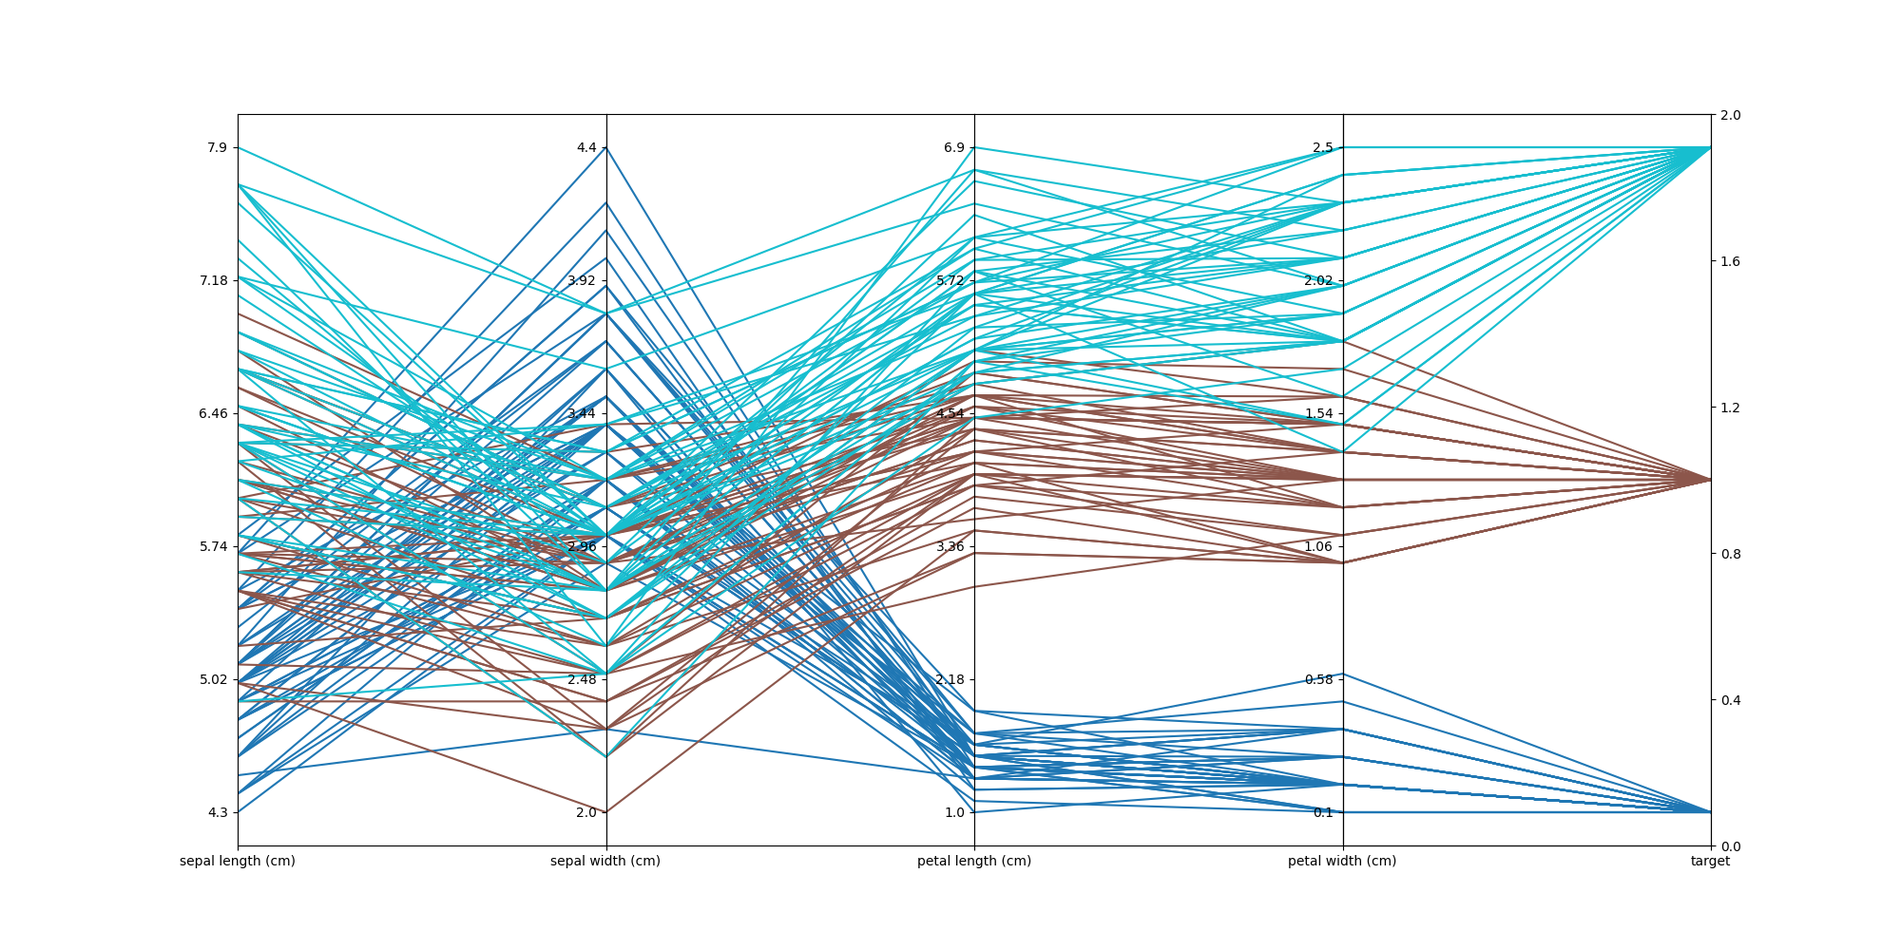
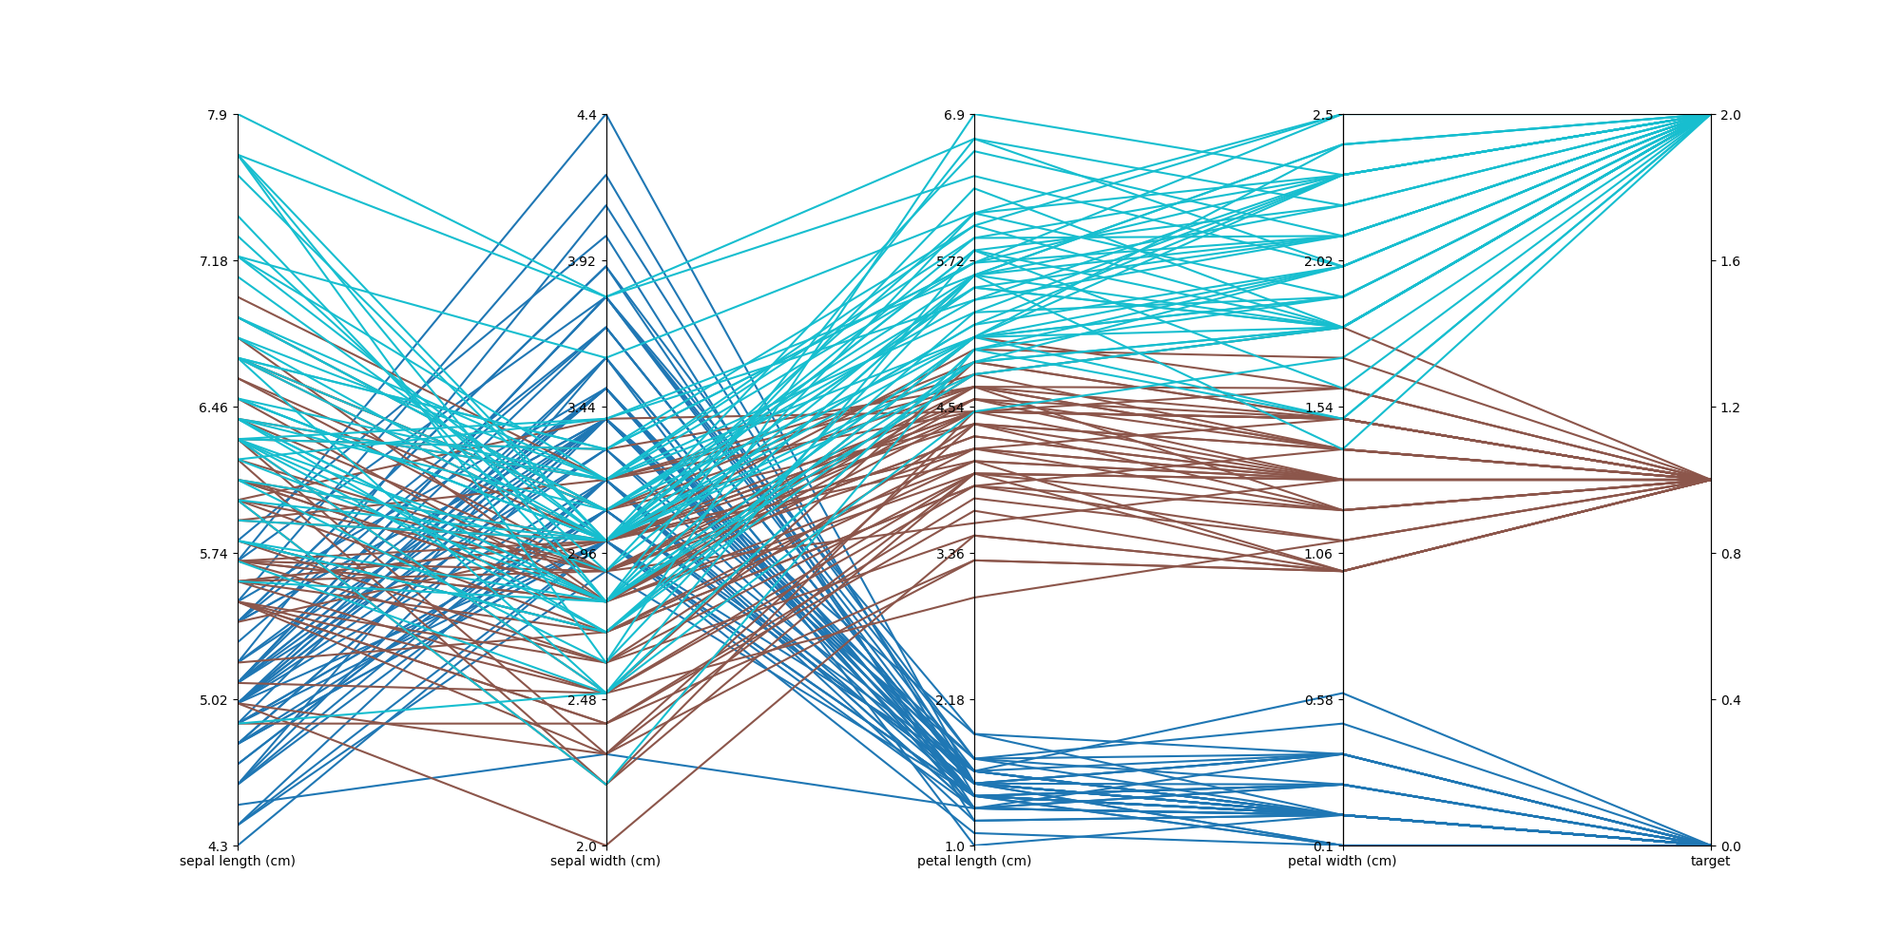
Improved ScalarsParallelCoordinates, implemented colorbar

Changed region(s): [[0.093, 0.124, 0.899, 0.899]]

diff --git a/docs/searchindex.js b/docs/searchindex.js
@@ -1,1 +1,1 @@
-Search.setIndex({docnames:["data","groupedscalars","groupedseries","index","scalars","series","ungroupedscalars","ungroupedseries","utils"],envversion:{"sphinx.domains.c":2,"sphinx.domains.changeset":1,"sphinx.domains.citation":1,"sphinx.domains.cpp":3,"sphinx.domains.index":1,"sphinx.domains.javascript":2,"sphinx.domains.math":2,"sphinx.domains.python":2,"sphinx.domains.rst":2,"sphinx.domains.std":1,sphinx:56},filenames:["data.rst","groupedscalars.rst","groupedseries.rst","index.rst","scalars.rst","series.rst","ungroupedscalars.rst","ungroupedseries.rst","utils.rst"],objects:{"plotszoo.data":{DataCollection:[0,0,1,""],OptunaData:[0,0,1,""],WandbData:[0,0,1,""]},"plotszoo.data.DataCollection":{align_series:[0,1,1,""],are_series_aligned:[0,1,1,""],astype:[0,1,1,""],create_categorical:[0,1,1,""],create_scalar_from_series:[0,1,1,""],dropna:[0,1,1,""],dropna_series:[0,1,1,""],fillna:[0,1,1,""],fillna_series:[0,1,1,""],is_both:[0,1,1,""],is_empty:[0,1,1,""],is_scalars:[0,1,1,""],is_series:[0,1,1,""],rolling_series:[0,1,1,""],set_scalars:[0,1,1,""],set_series:[0,1,1,""]},"plotszoo.data.OptunaData":{pull_scalars:[0,1,1,""]},"plotszoo.data.WandbData":{pull_scalars:[0,1,1,""],pull_series:[0,1,1,""]},"plotszoo.scalars":{ScalarsParallelCoordinates:[6,0,1,""],ScalarsScatterCumulative:[6,0,1,""]},"plotszoo.scalars.ScalarsParallelCoordinates":{plot:[6,1,1,""]},"plotszoo.scalars.ScalarsScatterCumulative":{plot:[6,1,1,""]},"plotszoo.scalars.grouped":{GroupedScalarsBarchart:[1,0,1,""]},"plotszoo.scalars.grouped.GroupedScalarsBarchart":{plot:[1,1,1,""]},"plotszoo.series":{SeriesParade:[7,0,1,""]},"plotszoo.series.SeriesParade":{plot:[7,1,1,""]},"plotszoo.series.grouped":{GroupedSeriesParade:[2,0,1,""]},"plotszoo.series.grouped.GroupedSeriesParade":{plot:[2,1,1,""]},"plotszoo.utils":{savefig:[8,3,1,""]},plotszoo:{utils:[8,2,0,"-"]}},objnames:{"0":["py","class","Python class"],"1":["py","method","Python method"],"2":["py","module","Python module"],"3":["py","function","Python function"]},objtypes:{"0":"py:class","1":"py:method","2":"py:module","3":"py:function"},terms:{"100":[2,7],"999":6,"class":[0,1,2,4,5,6,7],"default":[0,1,2,6,7,8],"float":0,"function":[0,1,3,6,7],"import":[1,2,6,7],"int":1,"new":0,"return":[0,1],"true":[0,1,6,8],The:[0,1,2,6,7,8],Use:[0,6],Useful:2,Will:0,__file__:[1,2,6,7],about:0,accord:0,actual:6,adjust_whitespac:6,adjust_withspac:6,after:[0,2],against:6,agg_fn:0,algin:0,align:[0,2],align_seri:0,all:[0,3,7],alpha:2,also:0,amax:6,api:0,append:[2,7],appli:0,are_series_align:0,area:2,arg:[0,1,2,6,7,8],argument:0,astyp:0,attribut:0,axes:[1,2,6,7],axi:1,barchart:1,base:0,befor:2,blue:6,both:[0,2],cach:0,cache_dir:0,call:[0,2,6,8],can:[3,4,5,6],cast:0,categor:[0,6],certain:2,chang:0,chart:6,check:0,choos:0,cmap:[2,6,7],cmap_fn:6,cointain:0,cointan:0,collect:0,color:[6,7],color_fn:7,colormap:[2,6,7],colum:0,column:[0,1,2,6,7],common:0,comput:7,confid:[1,2],config:6,configur:6,contain:0,content:[3,4,5],convert:[0,1],coordin:6,correspond:0,cos:[0,2,7],creat:[0,6,8],create_categor:0,create_dir_tre:8,create_scalar_from_seri:0,cumul:6,cumulative_fn:6,data:[1,2,3,6,7],datacollect:[0,1,2,6,7],datafram:[0,1,2,6,7],dataset:[1,6],dict:[0,6],dictionari:6,directori:[0,8],dirnam:[1,2,6,7],disabl:0,discard:0,divid:[4,5],doe:8,drop:0,dropna:0,dropna_seri:0,each:[0,1,2,6],effect:6,element:6,empti:0,ent_coef:6,exampl:[0,1,2,6,7,8],exist:8,fals:[0,1,2,6],featur:1,feature_nam:[1,6],field:6,fig:[1,2,6,7,8],figur:8,filenam:8,fill:0,fillna:0,fillna_seri:0,filter:0,find:[3,4,5],finish:0,first:8,fixed_color:7,flatten:1,folder:8,forc:0,force_upd:0,from:[0,1,6,7],full:0,gamma:6,get:3,goal:2,goal_typ:2,grid:1,grope:[4,5],group:[3,4,5,6],groupedscalarsbarchart:1,groupedseriesparad:2,have:[0,6],here:[0,1,2,3,4,5,6,7,8],histori:0,imag:[1,2,6,7],index:[0,1,2,3,6,7],indic:[0,1,2],inform:3,input:0,instead:6,integ:6,interv:[1,2],iri:[1,6],is_both:0,is_empti:0,is_scalar:0,is_seri:0,join:[1,2,6,7],just:[4,5],kei:[0,6],keyword:0,kwarg:[0,8],label:6,lambda:[0,1,7],legend:2,len:[2,6,7],line:1,linear:6,linspac:[2,6,7],list:[0,1,2,6],load:3,load_iri:[1,6],loc:2,logarithm:6,longest:0,lower:2,make:6,matplotlib:[1,2,6,7,8],max:[2,6],max_clip_norm:6,maximum:6,mean:[0,1,2,6],mean_reward:0,method:0,min:[0,2],minimum:6,modul:3,mongodb:0,must:[0,6],name:0,nan:0,nbin:1,nearest:0,need:3,new_column:0,nice:8,noise_level:[2,7],noisy_co:[2,7],noisy_sin:[2,7],none:[0,1,2,6,7],norm:6,normalize_color:2,num_seri:[2,7],number:[1,6],numer:[0,6],numpi:[1,2,6,7],one:[0,7],ones:[4,5],optuna:0,optunadata:0,organ:0,page:3,panda:[0,1,2,6,7],parad:[2,7],parallel:6,parallel_plot:6,path:[1,2,6,7],pdf:6,plot:[3,8],plotszoo:[0,1,2,4,5,6,7,8],plt:[1,2,6,7,8],png:[1,2,6,7,8],point:6,ppf:6,prettier:6,probabl:0,process:2,project:0,provid:0,pull:0,pull_scalar:0,pull_seri:0,pyplot:[1,2,6,7],python:0,queri:0,rand:[2,7],random:[2,7],rang:[2,7],reach:2,realpath:[1,2,6,7],reindex:0,rel:6,requir:[2,6],reset:0,respect:6,result:0,retriv:0,reward:[0,6],right:2,rightmost:6,roll:0,rolling_seri:0,row:0,run:[0,6],same:[0,6],sampl:[2,7],save:8,savefig:[1,2,6,7,8],savefig_kwarg:8,scalar:[0,2,3,7],scalar_nam:0,scalarsparallelcoordin:6,scalarsscattercumul:6,scale:6,scan_histori:0,scatter:6,scatter_cumul:6,scatterplot:6,scipi:6,search:3,seed:[2,7],sequenc:6,sequenti:6,seri:[0,3],series_parad:[2,7],seriesparad:7,servic:0,set:[0,6],set_scalar:[0,1,2,6,7],set_seri:[0,2,7],set_size_inch:[1,6],share:0,sharei:6,shortest:0,show:[1,6],side:6,sin:[0,2,7],sklearn:[1,6],sobsitut:0,some:[1,2,4,5,6,7,8],sort:6,sqlite:0,start:3,start_tim:0,stat:6,state:0,stochast:2,stop:2,storag:0,store:0,strategi:0,studi:0,study_nam:0,subplot:[1,2,6,7],subplots_adjust:6,sum:6,summari:6,tab10:[2,6,7],tan:0,target:[1,2,6],target_entropi:6,target_nam:1,text:1,textual:0,thei:8,them:[4,5],thi:2,tick:[1,6],time:0,timestamp:0,titl:1,train_step:6,tree:8,two:0,type:[0,2,6,7],unalign:0,ungroup:[3,4,5],updat:0,use:[0,2,6,7],used:6,usernam:0,using:[0,2,6],util:3,valu:[0,2,6,7],verbos:0,vertic:1,vf_coef:6,wandb:0,wandbdata:0,welcom:3,well:1,when:2,where:0,which:0,window:0,without:[4,5],work:2,wspace:6,x_seq:6,xtick:6,xticks_fn:6,you:[3,4,5,6],yticks_fn:1,zip:1},titles:["Data loading","Plotting Grouped Scalars","Plotting Grouped Series","plotszoo\u2019s documentation","Plotting Scalars","Plotting Series","Plotting Ungrouped Scalars","Plotting Ungrouped Series","Utility Functions"],titleterms:{"function":8,data:0,document:3,group:[1,2],indic:3,load:0,plot:[1,2,4,5,6,7],plotszoo:3,scalar:[1,4,6],seri:[2,5,7],tabl:3,ungroup:[6,7],util:8}})
+Search.setIndex({docnames:["data","groupedscalars","groupedseries","index","scalars","series","ungroupedscalars","ungroupedseries","utils"],envversion:{"sphinx.domains.c":2,"sphinx.domains.changeset":1,"sphinx.domains.citation":1,"sphinx.domains.cpp":3,"sphinx.domains.index":1,"sphinx.domains.javascript":2,"sphinx.domains.math":2,"sphinx.domains.python":2,"sphinx.domains.rst":2,"sphinx.domains.std":1,sphinx:56},filenames:["data.rst","groupedscalars.rst","groupedseries.rst","index.rst","scalars.rst","series.rst","ungroupedscalars.rst","ungroupedseries.rst","utils.rst"],objects:{"plotszoo.data":{DataCollection:[0,0,1,""],OptunaData:[0,0,1,""],WandbData:[0,0,1,""]},"plotszoo.data.DataCollection":{align_series:[0,1,1,""],are_series_aligned:[0,1,1,""],astype:[0,1,1,""],create_categorical:[0,1,1,""],create_scalar_from_series:[0,1,1,""],dropna:[0,1,1,""],dropna_series:[0,1,1,""],fillna:[0,1,1,""],fillna_series:[0,1,1,""],is_both:[0,1,1,""],is_empty:[0,1,1,""],is_scalars:[0,1,1,""],is_series:[0,1,1,""],rolling_series:[0,1,1,""],set_scalars:[0,1,1,""],set_series:[0,1,1,""]},"plotszoo.data.OptunaData":{pull_scalars:[0,1,1,""]},"plotszoo.data.WandbData":{pull_scalars:[0,1,1,""],pull_series:[0,1,1,""]},"plotszoo.scalars":{ScalarsParallelCoordinates:[6,0,1,""],ScalarsScatterCumulative:[6,0,1,""]},"plotszoo.scalars.ScalarsParallelCoordinates":{plot:[6,1,1,""]},"plotszoo.scalars.ScalarsScatterCumulative":{plot:[6,1,1,""]},"plotszoo.scalars.grouped":{GroupedScalarsBarchart:[1,0,1,""]},"plotszoo.scalars.grouped.GroupedScalarsBarchart":{plot:[1,1,1,""]},"plotszoo.series":{SeriesParade:[7,0,1,""]},"plotszoo.series.SeriesParade":{plot:[7,1,1,""]},"plotszoo.series.grouped":{GroupedSeriesParade:[2,0,1,""]},"plotszoo.series.grouped.GroupedSeriesParade":{plot:[2,1,1,""]},"plotszoo.utils":{savefig:[8,3,1,""]},plotszoo:{utils:[8,2,0,"-"]}},objnames:{"0":["py","class","Python class"],"1":["py","method","Python method"],"2":["py","module","Python module"],"3":["py","function","Python function"]},objtypes:{"0":"py:class","1":"py:method","2":"py:module","3":"py:function"},terms:{"100":[2,7],"999":6,"class":[0,1,2,4,5,6,7],"default":[0,1,2,6,7,8],"float":0,"function":[0,1,3,6,7],"import":[1,2,6,7],"int":1,"new":0,"return":[0,1],"true":[0,1,6,8],The:[0,1,2,6,7,8],Use:[0,6],Useful:2,Will:0,__file__:[1,2,6,7],about:0,accord:0,actual:6,adjust_whitespac:6,adjust_withspac:6,after:[0,2],against:6,agg_fn:0,algin:0,align:[0,2],align_seri:0,all:[0,3,7],alpha:2,also:0,amax:6,api:0,append:[2,7],appli:0,are_series_align:0,area:2,arg:[0,1,2,6,7,8],argument:0,astyp:0,attribut:0,axes:[1,2,6,7],axi:1,barchart:1,base:0,befor:2,blue:6,both:[0,2],cach:0,cache_dir:0,call:[0,2,6,8],can:[3,4,5,6],cast:0,categor:[0,6],certain:2,chang:0,chart:6,check:0,choos:0,cmap:[2,6,7],cmap_fn:6,cointain:0,cointan:0,collect:0,color:[6,7],color_fn:7,colorbar:6,colormap:[2,6,7],colum:0,column:[0,1,2,6,7],common:0,comput:7,confid:[1,2],config:6,configur:6,contain:0,content:[3,4,5],convert:[0,1],coordin:6,correspond:0,cos:[0,2,7],creat:[0,6,8],create_categor:0,create_dir_tre:8,create_scalar_from_seri:0,cumul:6,cumulative_fn:6,data:[1,2,3,6,7],datacollect:[0,1,2,6,7],datafram:[0,1,2,6,7],dataset:[1,6],dict:[0,6],dictionari:6,directori:[0,8],dirnam:[1,2,6,7],disabl:0,discard:0,divid:[4,5],doe:8,drop:0,dropna:0,dropna_seri:0,each:[0,1,2,6],effect:6,element:6,empti:0,ent_coef:6,exampl:[0,1,2,6,7,8],exist:8,fals:[0,1,2,6],featur:1,feature_nam:[1,6],field:6,fig:[1,2,6,7,8],figur:8,filenam:8,fill:0,fillna:0,fillna_seri:0,filter:0,find:[3,4,5],finish:0,first:8,fixed_color:7,flatten:1,folder:8,forc:0,force_upd:0,from:[0,1,6,7],full:0,gamma:6,get:3,goal:2,goal_typ:2,grid:1,grope:[4,5],group:[3,4,5,6],groupedscalarsbarchart:1,groupedseriesparad:2,have:[0,6],here:[0,1,2,3,4,5,6,7,8],histori:0,imag:[1,2,6,7],index:[0,1,2,3,6,7],indic:[0,1,2],inform:3,input:0,instead:6,integ:6,interv:[1,2],iri:[1,6],is_both:0,is_empti:0,is_scalar:0,is_seri:0,join:[1,2,6,7],just:[4,5],kei:[0,6],keyword:0,kwarg:[0,8],label:6,lambda:[0,1,7],legend:2,len:[2,6,7],line:1,linear:6,linspac:[2,6,7],list:[0,1,2,6],load:3,load_iri:[1,6],loc:2,logarithm:6,longest:0,lower:2,make:6,matplotlib:[1,2,6,7,8],max:[2,6],max_clip_norm:6,maximum:6,mean:[0,1,2,6],mean_reward:0,method:0,min:[0,2],minimum:6,modul:3,mongodb:0,must:[0,6],name:0,nan:0,nbin:1,nearest:0,need:3,new_column:0,nice:8,noise_level:[2,7],noisy_co:[2,7],noisy_sin:[2,7],none:[0,1,2,6,7],norm:6,normalize_color:2,num_seri:[2,7],number:[1,6],numer:[0,6],numpi:[1,2,6,7],one:[0,7],ones:[4,5],optuna:0,optunadata:0,organ:0,page:3,panda:[0,1,2,6,7],parad:[2,7],parallel:6,parallel_plot:6,path:[1,2,6,7],pdf:6,plot:[3,8],plotszoo:[0,1,2,4,5,6,7,8],plt:[1,2,6,7,8],png:[1,2,6,7,8],point:6,ppf:6,prettier:6,probabl:0,process:2,project:0,provid:0,pull:0,pull_scalar:0,pull_seri:0,pyplot:[1,2,6,7],python:0,queri:0,rand:[2,7],random:[2,7],rang:[2,7],reach:2,realpath:[1,2,6,7],reindex:0,rel:6,requir:[2,6],reset:0,respect:6,result:0,retriv:0,reward:[0,6],right:2,rightmost:6,roll:0,rolling_seri:0,row:0,run:[0,6],same:[0,6],sampl:[2,7],save:8,savefig:[1,2,6,7,8],savefig_kwarg:8,scalar:[0,2,3,7],scalar_nam:0,scalarsparallelcoordin:6,scalarsscattercumul:6,scale:6,scan_histori:0,scatter:6,scatter_cumul:6,scatterplot:6,scipi:6,search:3,seed:[2,7],sequenc:6,sequenti:6,seri:[0,3],series_parad:[2,7],seriesparad:7,servic:0,set:[0,6],set_scalar:[0,1,2,6,7],set_seri:[0,2,7],set_size_inch:[1,6],share:0,sharei:6,shortest:0,show:[1,6],side:6,sin:[0,2,7],sklearn:[1,6],sobsitut:0,some:[1,2,4,5,6,7,8],sort:6,sqlite:0,start:3,start_tim:0,stat:6,state:0,stochast:2,stop:2,storag:0,store:0,strategi:0,studi:0,study_nam:0,subplot:[1,2,6,7],subplots_adjust:6,sum:6,summari:6,tab10:[2,6,7],tan:0,target:[1,2,6],target_entropi:6,target_nam:1,text:1,textual:0,thei:8,them:[4,5],thi:2,tick:[1,6],time:0,timestamp:0,titl:1,train_step:6,tree:8,two:0,type:[0,2,6,7],unalign:0,ungroup:[3,4,5],updat:0,use:[0,2,6,7],used:6,usernam:0,using:[0,2,6],util:3,valu:[0,2,6,7],verbos:0,vertic:1,vf_coef:6,wandb:0,wandbdata:0,welcom:3,well:1,when:2,where:0,which:0,window:0,without:[4,5],work:2,wspace:6,x_seq:6,xtick:6,xticks_fn:6,you:[3,4,5,6],yticks_fn:1,zip:1},titles:["Data loading","Plotting Grouped Scalars","Plotting Grouped Series","plotszoo\u2019s documentation","Plotting Scalars","Plotting Series","Plotting Ungrouped Scalars","Plotting Ungrouped Series","Utility Functions"],titleterms:{"function":8,data:0,document:3,group:[1,2],indic:3,load:0,plot:[1,2,4,5,6,7],plotszoo:3,scalar:[1,4,6],seri:[2,5,7],tabl:3,ungroup:[6,7],util:8}})

diff --git a/docs/ungroupedscalars.html b/docs/ungroupedscalars.html
@@ -208,7 +208,7 @@
 <a class="reference internal image-reference" href="_images/ScalarsParallelCoordinates.png"><img alt="_images/ScalarsParallelCoordinates.png" src="_images/ScalarsParallelCoordinates.png" style="width: 600px;" /></a>
 <dl class="py method">
 <dt id="plotszoo.scalars.ScalarsParallelCoordinates.plot">
-<code class="sig-name descname">plot</code><span class="sig-paren">(</span><em class="sig-param"><span class="n">axes</span></em>, <em class="sig-param"><span class="n">ticks</span><span class="o">=</span><span class="default_value">6</span></em>, <em class="sig-param"><span class="n">adjust_whitespaces</span><span class="o">=</span><span class="default_value">True</span></em>, <em class="sig-param"><span class="n">cmap</span><span class="o">=</span><span class="default_value">'Blues'</span></em>, <em class="sig-param"><span class="n">cmap_fn</span><span class="o">=</span><span class="default_value">None</span></em>, <em class="sig-param"><span class="n">xticks_fn</span><span class="o">=</span><span class="default_value">None</span></em><span class="sig-paren">)</span><a class="headerlink" href="#plotszoo.scalars.ScalarsParallelCoordinates.plot" title="Permalink to this definition">¶</a></dt>
+<code class="sig-name descname">plot</code><span class="sig-paren">(</span><em class="sig-param"><span class="n">axes</span></em>, <em class="sig-param"><span class="n">ticks</span><span class="o">=</span><span class="default_value">6</span></em>, <em class="sig-param"><span class="n">adjust_whitespaces</span><span class="o">=</span><span class="default_value">True</span></em>, <em class="sig-param"><span class="n">cmap</span><span class="o">=</span><span class="default_value">'Blues'</span></em>, <em class="sig-param"><span class="n">cmap_fn</span><span class="o">=</span><span class="default_value">None</span></em>, <em class="sig-param"><span class="n">xticks_fn</span><span class="o">=</span><span class="default_value">None</span></em>, <em class="sig-param"><span class="n">colorbar</span><span class="o">=</span><span class="default_value">False</span></em><span class="sig-paren">)</span><a class="headerlink" href="#plotszoo.scalars.ScalarsParallelCoordinates.plot" title="Permalink to this definition">¶</a></dt>
 <dd><p>Plot the parallel coordinates chart</p>
 <dl class="simple">
 <dt>Args:</dt><dd><dl class="field-list simple">
@@ -221,14 +221,17 @@
 <dt class="field-odd">cmap</dt>
 <dd class="field-odd"><p><code class="xref py py-mod docutils literal notranslate"><span class="pre">matplotlib</span></code> colormap to use (Default: <code class="docutils literal notranslate"><span class="pre">Blues</span></code>)</p>
 </dd>
-<dt class="field-even">cmap_fn</dt>
-<dd class="field-even"><p>Function to use instead of the <code class="xref py py-mod docutils literal notranslate"><span class="pre">matplotlib</span></code> colormap (Default: <code class="docutils literal notranslate"><span class="pre">None</span></code>)</p>
+<dt class="field-even">colorbar</dt>
+<dd class="field-even"><p>Plot the colorbar (Default: <code class="docutils literal notranslate"><span class="pre">False</span></code>)</p>
 </dd>
-<dt class="field-odd">xticks_fn</dt>
-<dd class="field-odd"><p>Function to create the xticks (Default: <code class="docutils literal notranslate"><span class="pre">None</span></code>)</p>
+<dt class="field-odd">cmap_fn</dt>
+<dd class="field-odd"><p>Function to use instead of the <code class="xref py py-mod docutils literal notranslate"><span class="pre">matplotlib</span></code> colormap (Default: <code class="docutils literal notranslate"><span class="pre">None</span></code>)</p>
 </dd>
-<dt class="field-even">adjust_withspaces</dt>
-<dd class="field-even"><p>Call <code class="docutils literal notranslate"><span class="pre">plt.subplots_adjust(wspace=0)</span></code> to make the plot prettier (can have side-effects) (Default: <code class="docutils literal notranslate"><span class="pre">True</span></code>)</p>
+<dt class="field-even">xticks_fn</dt>
+<dd class="field-even"><p>Function to create the xticks (Default: <code class="docutils literal notranslate"><span class="pre">None</span></code>)</p>
+</dd>
+<dt class="field-odd">adjust_withspaces</dt>
+<dd class="field-odd"><p>Call <code class="docutils literal notranslate"><span class="pre">plt.subplots_adjust(wspace=0)</span></code> to make the plot prettier (can have side-effects) (Default: <code class="docutils literal notranslate"><span class="pre">True</span></code>)</p>
 </dd>
 </dl>
 </dd>

diff --git a/plotszoo/scalars/parallel.py b/plotszoo/scalars/parallel.py
@@ -1,6 +1,7 @@
 import numpy as np
 import matplotlib.pyplot as plt
 import matplotlib
+from mpl_toolkits.axes_grid1 import make_axes_locatable
 
 from plotszoo.scalars import ScalarsPlot
 
@@ -30,7 +31,7 @@ class ScalarsParallelCoordinates(ScalarsPlot):
 
     def _set_ticks_for_axis(self, dim, ax, ticks_config):
         ticks_values = None
-        tick_labels = None
+        ticks_labels = None
 
         if ticks_config["type"] == "categorical":
             ticks_list = ticks_config["ticks"]
@@ -43,13 +44,13 @@ class ScalarsParallelCoordinates(ScalarsPlot):
             elif ticks_config["scale"] == "sequential":
                 ticks_values = [i/(len(ticks_config["ticks"])-1) for i in range(0, len(ticks_config["ticks"]))]
             
-            tick_labels = ticks_list
+            ticks_labels = ticks_list
 
         if ticks_config["type"] == "numeral":
             ticks_number = ticks_config["ticks"]
             min_val, max_val, val_range = self.min_max_range[self.groups[dim]]
             step = val_range / float(ticks_number-1)
-            tick_labels = [round(min_val + step * i, 2) for i in range(ticks_number)]
+            ticks_labels = [round(min_val + step * i, 2) for i in range(ticks_number)]
         
             norm_min = self.norm_df[self.groups[dim]].min()
             norm_range = np.ptp(self.norm_df[self.groups[dim]])
@@ -57,12 +58,12 @@ class ScalarsParallelCoordinates(ScalarsPlot):
 
             ticks_values = [round(norm_min + norm_step * i, 2) for i in range(ticks_number)]
             if ticks_config["scale"] == "logarithmic":
-                tick_labels = ["1e"+str(l) for l in tick_labels]
+                ticks_labels = ["1e"+str(l) for l in ticks_labels]
         
         ax.yaxis.set_ticks(ticks_values)
-        ax.set_yticklabels(tick_labels)
+        ax.set_yticklabels(ticks_labels)
 
-    def plot(self, axes, ticks=6, adjust_whitespaces=True, cmap="Blues", cmap_fn=None, xticks_fn=None):
+    def plot(self, axes, ticks=6, adjust_whitespaces=True, cmap="Blues", cmap_fn=None, xticks_fn=None, colorbar=False):
         r"""
         Plot the parallel coordinates chart
 
@@ -70,6 +71,7 @@ class ScalarsParallelCoordinates(ScalarsPlot):
             :axes: List of :mod:`matplotlib` axes to plot to (you must use the same number of axes and groups)
             :ticks: Ticks configuration dictionary or number of ticks to show in the axes (Default: 6)
             :cmap: :mod:`matplotlib` colormap to use (Default: ``Blues``)
+            :colorbar: Plot the colorbar (Default: ``False``)
             :cmap_fn: Function to use instead of the :mod:`matplotlib` colormap (Default: ``None``)
             :xticks_fn: Function to create the xticks (Default: ``None``)
             :adjust_withspaces: Call ``plt.subplots_adjust(wspace=0)`` to make the plot prettier (can have side-effects) (Default: ``True``)
@@ -137,11 +139,13 @@ class ScalarsParallelCoordinates(ScalarsPlot):
             cmap = matplotlib.cm.get_cmap(cmap)
             norm = matplotlib.colors.Normalize(vmin=self.norm_df[self.target].min(), vmax=self.norm_df[self.target].max())
             cmap_fn = lambda self, x: cmap(norm(x))
-
+        
         for i, ax in enumerate(axes):
             for idx in self.norm_df.index:
                 ax.plot(x, self.norm_df.loc[idx, self.groups], c=cmap_fn(self, self.norm_df.loc[idx, self.target]))
             ax.set_xlim([x[i], x[i+1]])
+            ax.set_ylim([0, 1])
+
 
         if xticks_fn is None:
             xticks_fn = lambda x: x
@@ -151,14 +155,33 @@ class ScalarsParallelCoordinates(ScalarsPlot):
             ax.xaxis.set_major_locator(matplotlib.ticker.FixedLocator([dim]))
             self._set_ticks_for_axis(dim, ax, ticks_config)
             ax.set_xticklabels([xticks_fn(label) for label in [self.groups[dim]]])
-                
-
-        ax = plt.twinx(axes[-1])
-        dim = len(axes)
-        ax.xaxis.set_major_locator(matplotlib.ticker.FixedLocator([x[-2], x[-1]]))
-        ax.set_xticklabels([xticks_fn(label) for label in [self.groups[-2], self.groups[-1]]])
-
-        self._set_ticks_for_axis(dim, ax, ticks[self.groups[-1]])
         
+
+        if colorbar:
+            fig = axes[-1].figure
+            series = self.norm_df[self.groups[-1]]
+            
+            norm = matplotlib.colors.Normalize(vmin=series.min(), vmax=series.max())
+            cmap = matplotlib.cm.get_cmap(cmap)
+            
+            divider = make_axes_locatable(axes[-1])
+            cax = divider.append_axes("right", size="20%", pad=0.1)
+            
+            fig.colorbar(matplotlib.cm.ScalarMappable(norm=norm, cmap=cmap), cax=cax, orientation="vertical", label=xticks_fn(self.groups[-1]))
+
+            self._set_ticks_for_axis(len(self.groups)-1, cax, ticks[self.groups[-1]])
+            
+        else:
+            ax = plt.twinx(axes[-1])
+            dim = len(axes)
+            ax.xaxis.set_major_locator(matplotlib.ticker.FixedLocator([x[-2], x[-1]]))
+            ax.set_xticklabels([xticks_fn(label) for label in [self.groups[-2], self.groups[-1]]])
+
+            self._set_ticks_for_axis(dim, ax, ticks[self.groups[-1]])
+        
+        for ax in axes:
+            ax.spines["bottom"].set_visible(False)
+            ax.spines["top"].set_visible(False)
+            
         if adjust_whitespaces:
             plt.subplots_adjust(wspace=0)
